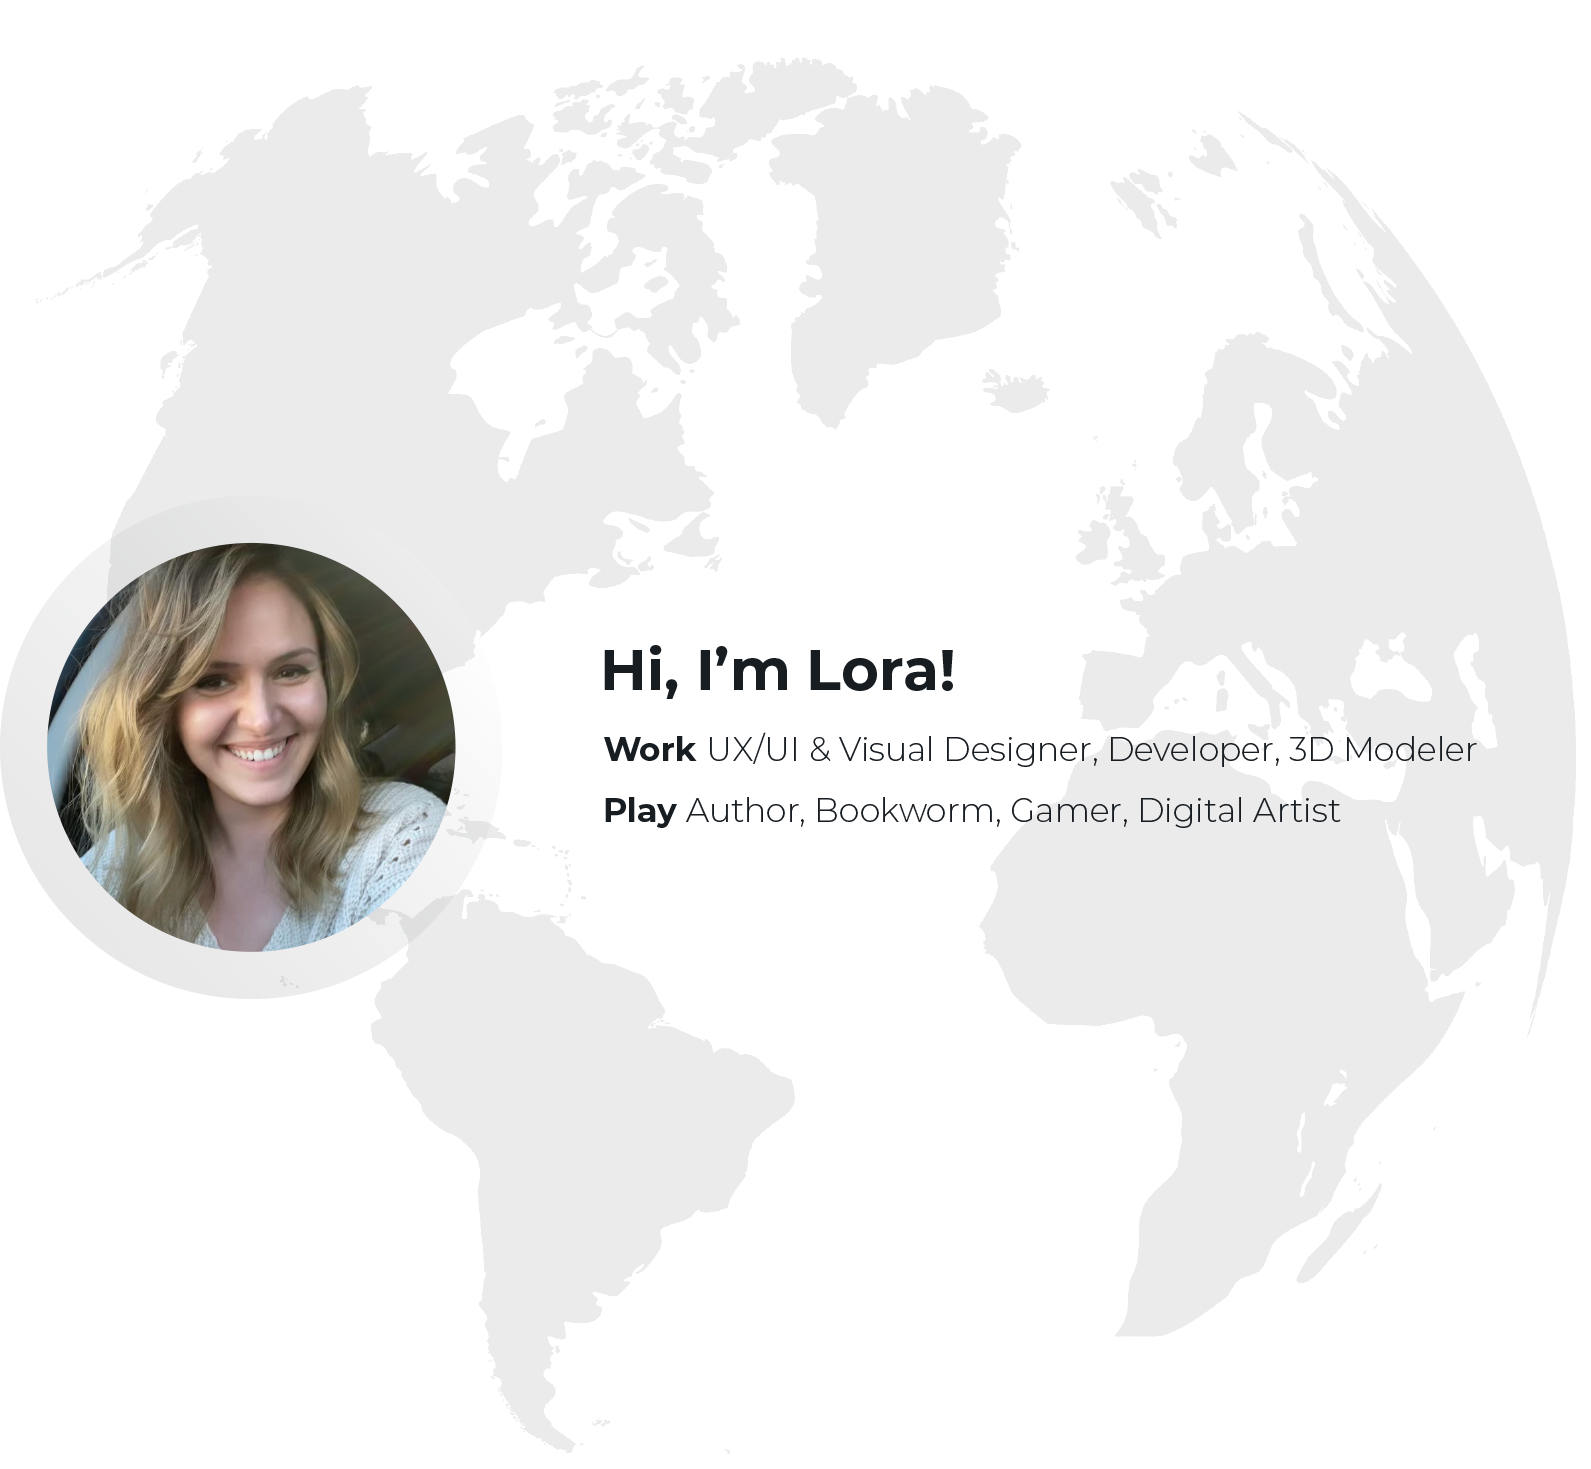
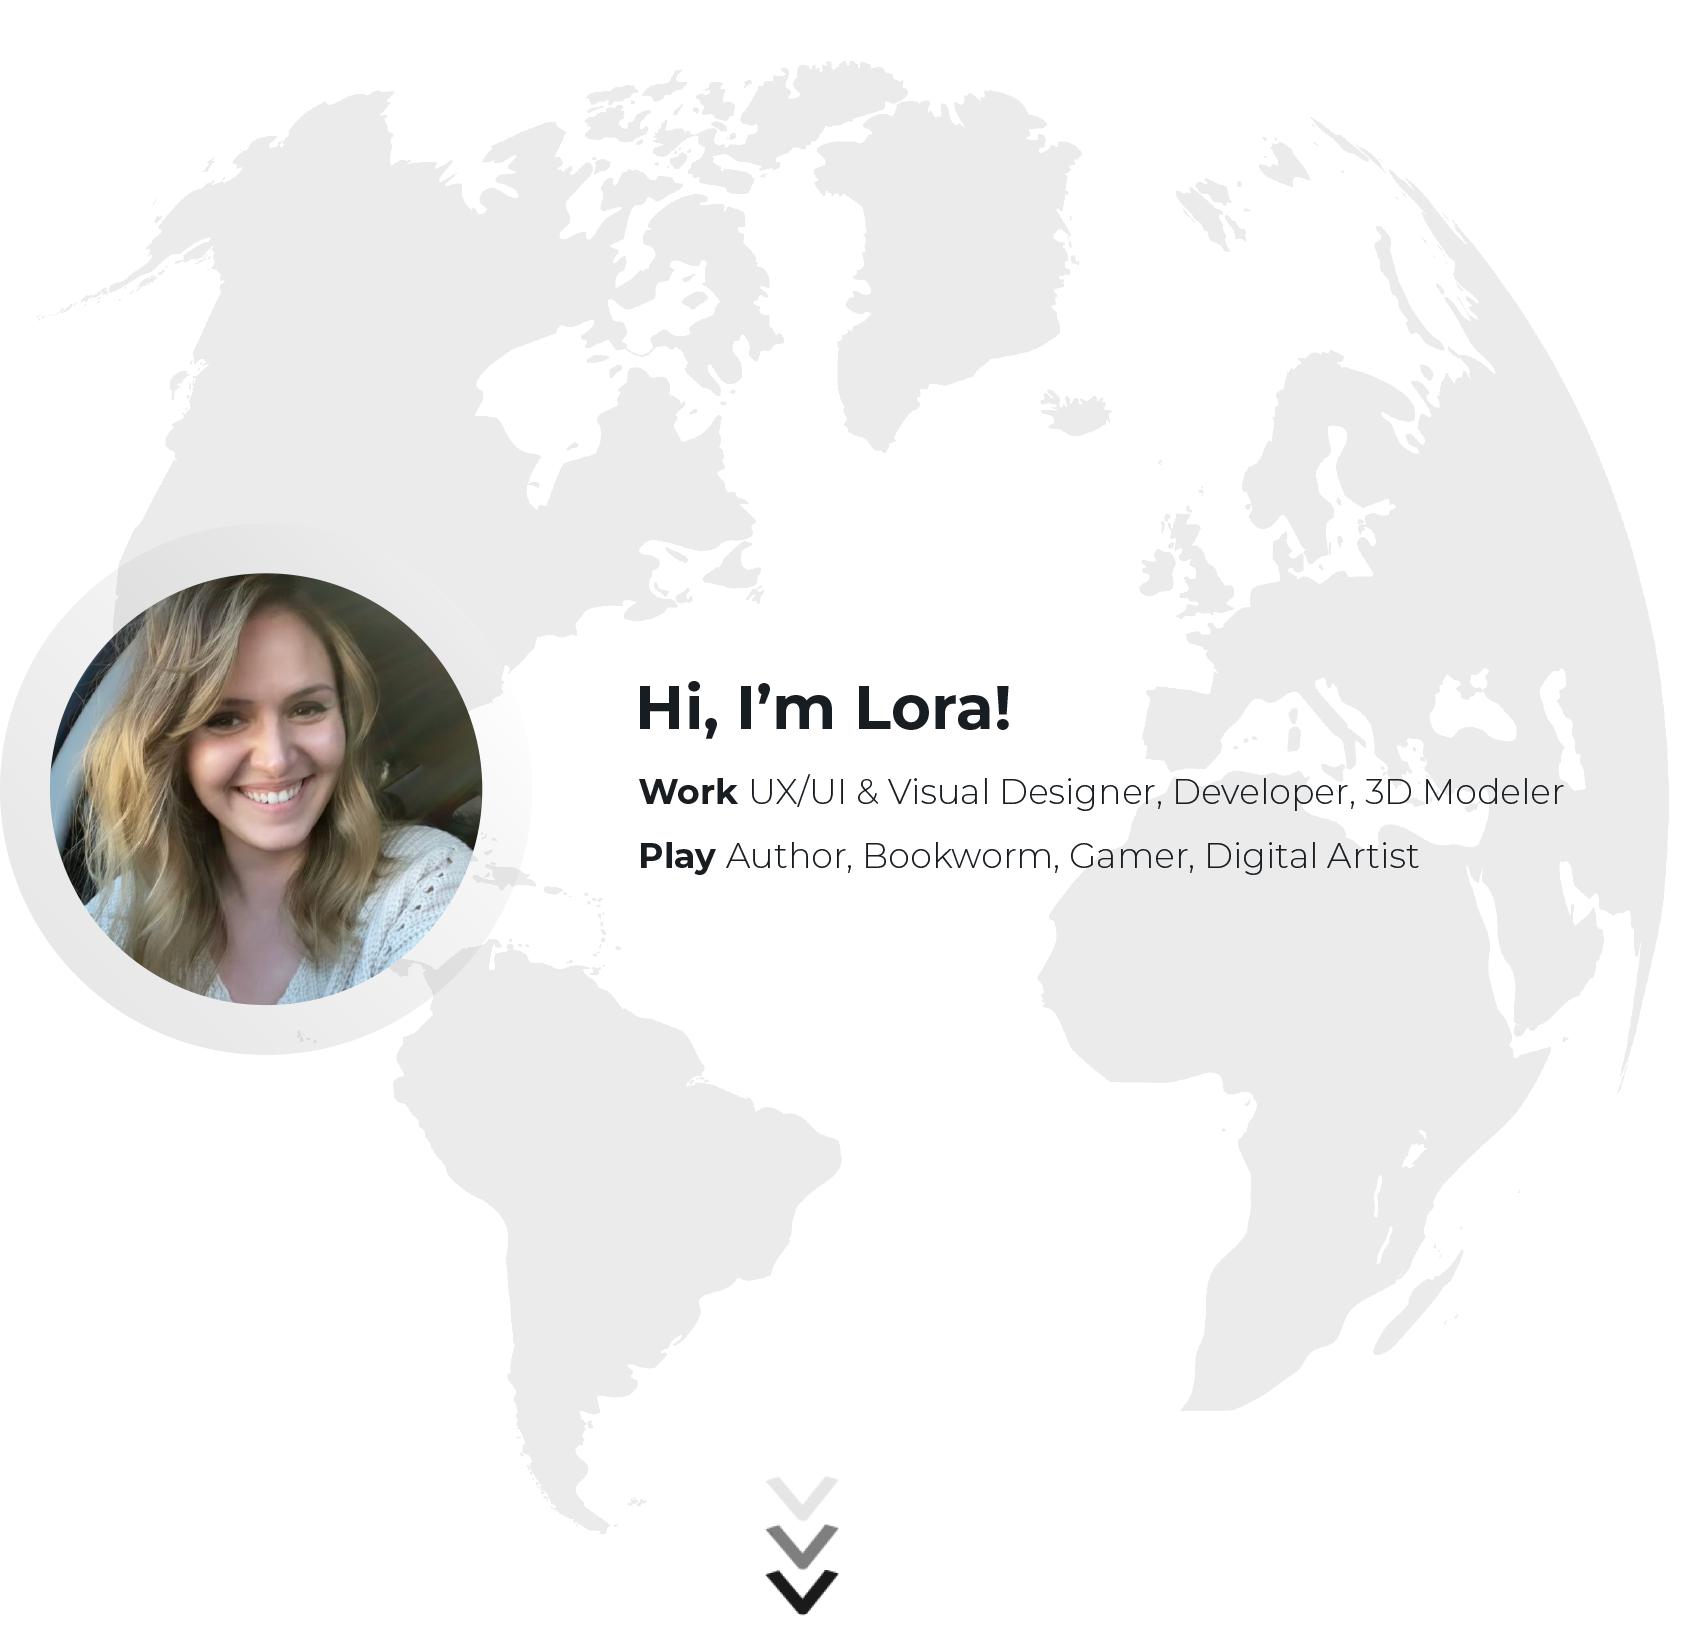
arrows lol

Changed region(s): [[0.0308, 0.337, 0.308, 0.6739], [0.3696, 0.3982, 0.9239, 0.582], [0.4312, 0.8884, 0.4928, 0.9803]]

diff --git a/src/Portfolio.js b/src/Portfolio.js
@@ -128,13 +128,9 @@ function Portfolio() {
     <div className='mobile'>
     <Navigation />
       <link rel="stylesheet" href="https://use.typekit.net/sxc8zwt.css"></link>
-      <div className='center-align mobile'>
+      <div className='center-align mobile bottom-medium'>
         <Top />
       </div>     
-      
-      <div className='center-align'>
-        <img className='img-arrows top-small bottom-small mobile' src= { imgArrows } ></img>
-      </div>  
       
       <div className='mobile margins-extra'>
         <h2 className='h3-primary bottom-medium box center-align'>What I Do</h2>
